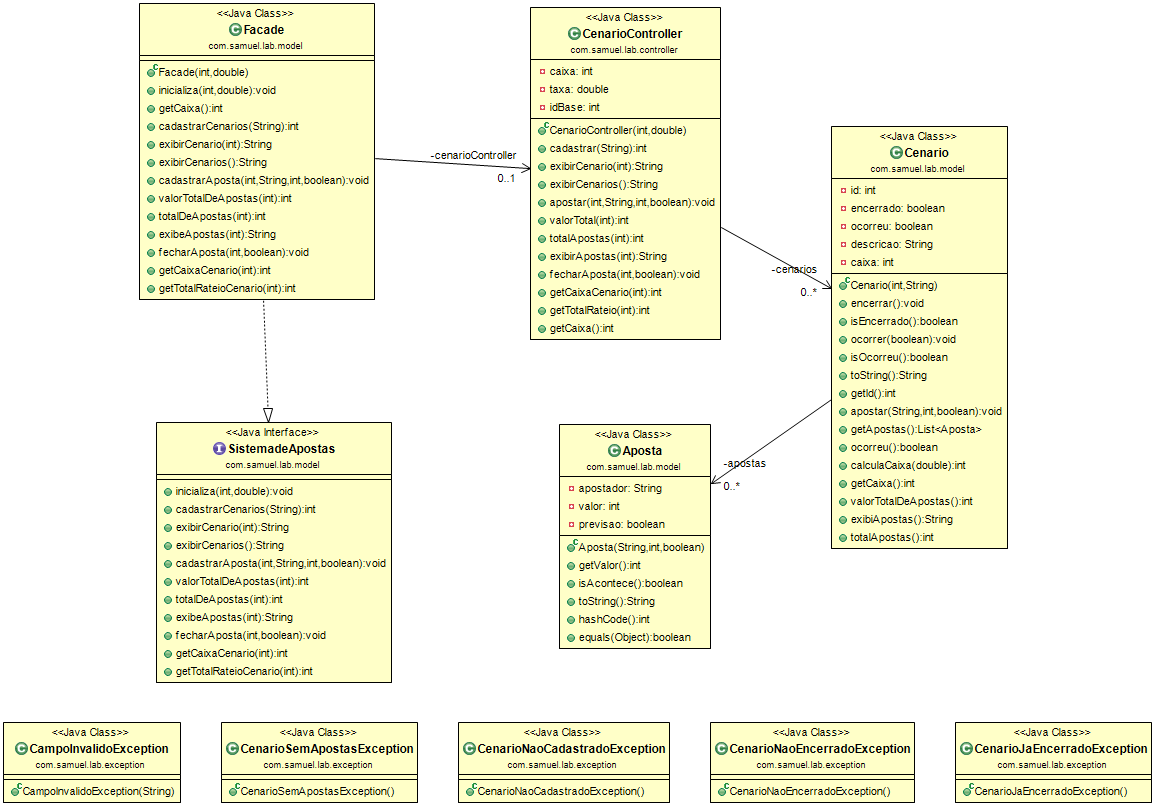
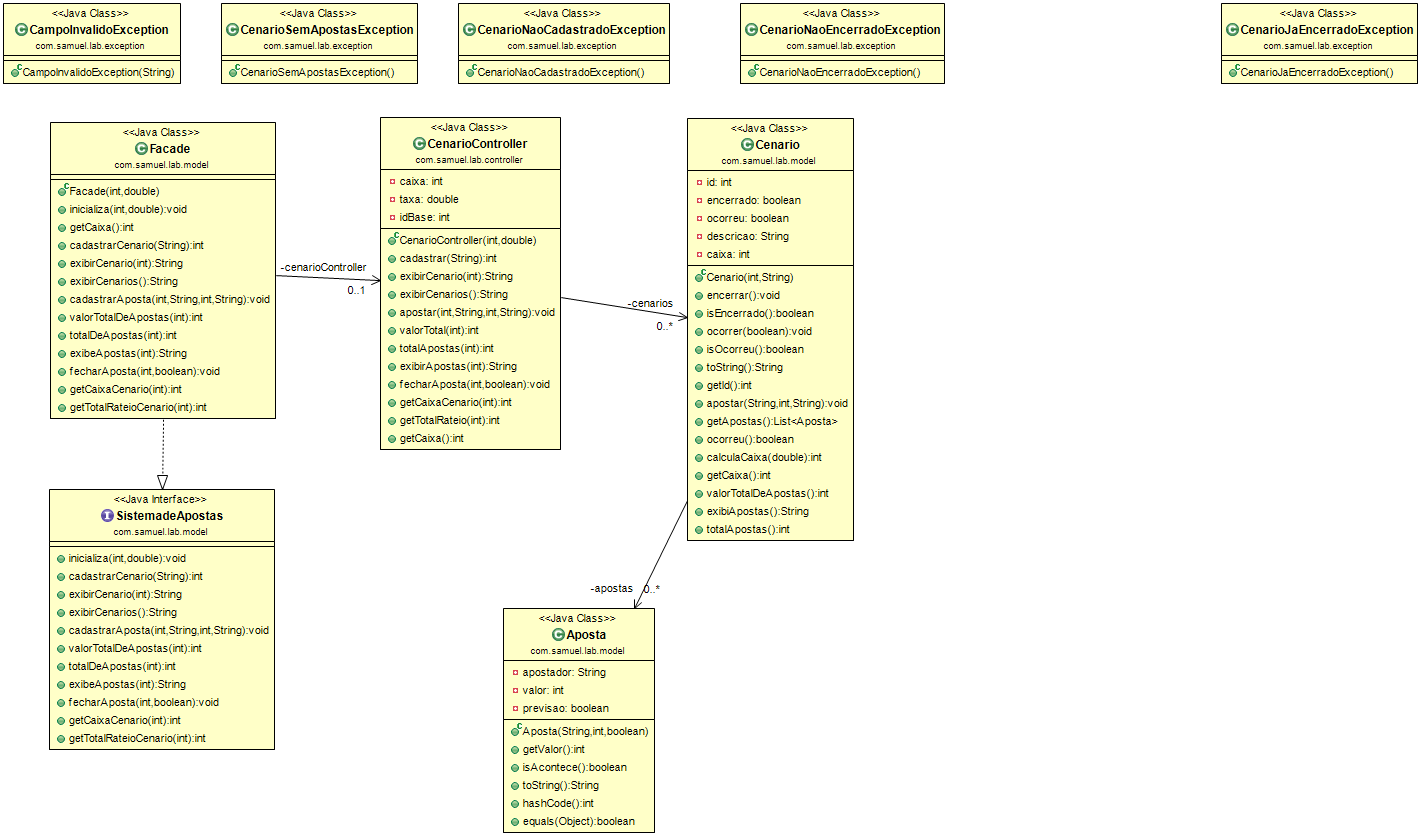
Ajustado e acordo com a especificação

diff --git a/tests/com/samuel/tests/controller/CenarioControllerTest.java b/tests/com/samuel/tests/controller/CenarioControllerTest.java
@@ -120,7 +120,7 @@ public class CenarioControllerTest {
 	@Test(expected = CampoInvalidoException.class)
 	public void testApostarApostadorNull() {
 		this.cenarioController.cadastrar("Brasil Hexa");
-		this.cenarioController.apostar(1, null, 1000, true);
+		this.cenarioController.apostar(1, null, 1000, "VAI ACONTECER");
 	}
 	
 	/**
@@ -129,7 +129,7 @@ public class CenarioControllerTest {
 	@Test(expected = CampoInvalidoException.class)
 	public void testApostarApostadorVazio() {
 		this.cenarioController.cadastrar("Brasil Hexa");
-		this.cenarioController.apostar(1, "", 1000, true);
+		this.cenarioController.apostar(1, "", 1000, "VAI ACONTECER");
 	}
 	
 	/**
@@ -138,18 +138,35 @@ public class CenarioControllerTest {
 	@Test(expected = CampoInvalidoException.class)
 	public void testApostarValorNegativo() {
 		this.cenarioController.cadastrar("Brasil Hexa");
-		this.cenarioController.apostar(1, "Samuel", -1000, true);
+		this.cenarioController.apostar(1, "Samuel", -1000, "VAI ACONTECER");
 	}
 	
 	/**
-	 * Testa o vprocesso de aposta com o valor da aposta zerado
+	 * Testa o processo de aposta com o valor da aposta zerado
 	 */
 	@Test(expected = CampoInvalidoException.class)
 	public void testApostarValorZerado() {
 		this.cenarioController.cadastrar("Brasil Hexa");
-		this.cenarioController.apostar(1, "Samuel", 0, true);
+		this.cenarioController.apostar(1, "Samuel", 0, "VAI ACONTECER");
 	}
 	
+	/**
+	 * Testa o processo de aposta com o valor da aposta zerado
+	 */
+	@Test(expected = CampoInvalidoException.class)
+	public void testApostarPrevisaoNula() {
+		this.cenarioController.cadastrar("Brasil Hexa");
+		this.cenarioController.apostar(1, "Samuel", 0, null);
+	}
+	
+	/**
+	 * Testa o processo de aposta com a previsão vazia
+	 */
+	@Test(expected = CampoInvalidoException.class)
+	public void testApostarPrevisaoVazia() {
+		this.cenarioController.cadastrar("Brasil Hexa");
+		this.cenarioController.apostar(1, "Samuel", 0, "");
+	}
 	
 	/**
 	 * Testa o carregamento do valor total de um cenário
@@ -157,7 +174,7 @@ public class CenarioControllerTest {
 	@Test
 	public void testValorTotal() {
 		this.cenarioController.cadastrar("Brasil Hexa");
-		this.cenarioController.apostar(1, "Samuel", 100, false);
+		this.cenarioController.apostar(1, "Samuel", 100,"N VAI ACONTECER");
 		assertEquals(100, this.cenarioController.valorTotal(1));
 	}
 	
@@ -184,8 +201,8 @@ public class CenarioControllerTest {
 	@Test
 	public void testTotalApostas() {
 		this.cenarioController.cadastrar("Brasil Hexa");
-		this.cenarioController.apostar(1, "Samuel", 100, false);
-		this.cenarioController.apostar(1, "Samuel", 100, true);
+		this.cenarioController.apostar(1, "Samuel", 100,"N VAI ACONTECER");
+		this.cenarioController.apostar(1, "Samuel", 100,"VAI ACONTECER");
 		assertEquals(2, this.cenarioController.totalApostas(1));
 	}
 	
@@ -215,8 +232,8 @@ public class CenarioControllerTest {
 		str += "Maria - R$1,00 - VAI ACONTECER";
 		
 		this.cenarioController.cadastrar("Brasil Hexa");
-		this.cenarioController.apostar(1, "Samuel", 100, false);
-		this.cenarioController.apostar(1, "Maria", 100, true);
+		this.cenarioController.apostar(1, "Samuel", 100, "N VAI ACONTECER");
+		this.cenarioController.apostar(1, "Maria", 100, "VAI ACONTECER");
 		
 		assertEquals(str, this.cenarioController.exibirApostas(1));
 		
@@ -263,7 +280,7 @@ public class CenarioControllerTest {
 	@Test
 	public void testGetCaixaInt() {
 		this.cenarioController.cadastrar("Brasil Hexa");
-		this.cenarioController.apostar(1, "Samuel", 2000, true);
+		this.cenarioController.apostar(1, "Samuel", 2000, "VAI ACONTECER");
 		this.cenarioController.fecharAposta(1, true);
 		assertEquals(200, this.cenarioController.getCaixaCenario(1));
 	}
@@ -294,7 +311,7 @@ public class CenarioControllerTest {
 	@Test
 	public void testGetTotalRateio() {
 		this.cenarioController.cadastrar("Brasil Hexa");
-		this.cenarioController.apostar(1, "Samuel", 2000, true);
+		this.cenarioController.apostar(1, "Samuel", 2000, "VAI ACONTECER");
 		this.cenarioController.fecharAposta(1, true);
 		assertEquals(1800, this.cenarioController.getTotalRateio(1));
 	}
@@ -326,7 +343,7 @@ public class CenarioControllerTest {
 	@Test(expected = CenarioNaoEncerradoException.class)
 	public void testGetTotalRateioCenarioNaoEncerrado() {
 		this.cenarioController.cadastrar("Brasil Hexa");
-		this.cenarioController.apostar(1, "Samuel", 1000, true);
+		this.cenarioController.apostar(1, "Samuel", 1000, "VAI ACONTECER");
 		this.cenarioController.getTotalRateio(1);
 	}
 

diff --git a/tests/com/samuel/tests/model/CenarioTest.java b/tests/com/samuel/tests/model/CenarioTest.java
@@ -102,7 +102,7 @@ public class CenarioTest {
 	@Test
 	public void testIsEncerradoTrue() {
 		this.cenario.encerrar();
-		assertFalse(this.cenario.isEncerrado());
+		assertTrue(this.cenario.isEncerrado());
 	}
 
 	/**
@@ -118,7 +118,7 @@ public class CenarioTest {
 	 * Testa o processo de verificar se um cenário ocorreu com um cenário que não ocorreu
 	 */
 	@Test
-	public void testOcorrerFAlse() {
+	public void testOcorrerFalse() {
 		this.cenario.ocorrer(false);
 		assertFalse(this.cenario.isOcorreu());
 	}
@@ -168,7 +168,7 @@ public class CenarioTest {
 	 */
 	@Test(expected = CampoInvalidoException.class)
 	public void testApostarApostadorNull() {
-		this.cenario.apostar(null, 1000, true);
+		this.cenario.apostar(null, 1000, "VAI ACONTECER");
 	}
 	
 	/**
@@ -176,7 +176,7 @@ public class CenarioTest {
 	 */
 	@Test(expected = CampoInvalidoException.class)
 	public void testApostarApostadorVazio() {
-		this.cenario.apostar("", 1000, true);
+		this.cenario.apostar("", 1000, "VAI ACONTECER");
 	}
 	
 	/**
@@ -184,7 +184,7 @@ public class CenarioTest {
 	 */
 	@Test(expected = CampoInvalidoException.class)
 	public void testApostarValorZerado() {
-		this.cenario.apostar("Samuel", 0, true);
+		this.cenario.apostar("Samuel", 0, "VAI ACONTECER");
 	}
 	
 	/**
@@ -192,7 +192,23 @@ public class CenarioTest {
 	 */
 	@Test(expected = CampoInvalidoException.class)
 	public void testApostarValorNegativo() {
-		this.cenario.apostar("Samuel", -100 , true);
+		this.cenario.apostar("Samuel", -100 , "VAI ACONTECER");
+	}
+	
+	/**
+	 * Testa o processo de apostar com a previsão nula
+	 */
+	@Test(expected = CampoInvalidoException.class)
+	public void testApostarPrevisaoNula() {
+		this.cenario.apostar("Samuel", -100 , null);
+	}
+	
+	/**
+	 * Testa o processo de apostar com a previsão vazia
+	 */
+	@Test(expected = CampoInvalidoException.class)
+	public void testApostarPrevisaoVazia() {
+		this.cenario.apostar("Samuel", -100 , "");
 	}
 
 	/**
@@ -208,8 +224,8 @@ public class CenarioTest {
 		apostas.add(aposta1);
 		apostas.add(aposta2);
 		
-		this.cenario.apostar("Samuel", 10, true);
-		this.cenario.apostar("Samuel", 10, false);
+		this.cenario.apostar("Samuel", 10, "VAI ACONTECER");
+		this.cenario.apostar("Samuel", 10, "N VAI ACONTECER");
 		
 		assertEquals(apostas, this.cenario.getApostas());
 	}
@@ -237,7 +253,7 @@ public class CenarioTest {
 	 */
 	@Test
 	public void testCalculaCaixa() {
-		this.cenario.apostar("Samuel", 100, true);
+		this.cenario.apostar("Samuel", 100, "VAI ACONTECER");
 		assertEquals(10, this.cenario.calculaCaixa(0.10));
 	}
 
@@ -246,8 +262,8 @@ public class CenarioTest {
 	 */
 	@Test
 	public void testGetCaixa() {
-		this.cenario.apostar("Samuel", 10, true);
-		this.cenario.apostar("Maria", 100, false);
+		this.cenario.apostar("Samuel", 10, "VAI ACONTECER");
+		this.cenario.apostar("Maria", 100, "N VAI ACONTECER");
 		assertEquals(110, this.cenario.getCaixa());
 	}
 
@@ -256,8 +272,8 @@ public class CenarioTest {
 	 */
 	@Test
 	public void testValorTotalDeApostas() {
-		this.cenario.apostar("Samuel", 10, true);
-		this.cenario.apostar("Maria", 100, false);
+		this.cenario.apostar("Samuel", 10, "VAI ACONTECER");
+		this.cenario.apostar("Maria", 100, "N VAI ACONTECER");
 		assertEquals(110, this.cenario.valorTotalDeApostas());
 	}
 	
@@ -266,8 +282,8 @@ public class CenarioTest {
 	 */
 	@Test
 	public void testExibiApostas() {
-		this.cenario.apostar("Samuel", 10, true);
-		this.cenario.apostar("Maria", 100, false);
+		this.cenario.apostar("Samuel", 10, "VAI ACONTECER");
+		this.cenario.apostar("Maria", 100, "N VAI ACONTECER");
 		
 		String str  = "Samuel - R$0,10 - VAI ACONTECER"+System.lineSeparator();
 		str += "Maria - R$1,00 - N VAI ACONTECER";

diff --git a/src/com/samuel/lab/model/Facade.java b/src/com/samuel/lab/model/Facade.java
@@ -52,7 +52,7 @@ public class Facade implements SistemadeApostas{
 	 * @return um inteiro representando o id do cenário;
 	 */
 	@Override
-	public int cadastrarCenarios(String descricao) {
+	public int cadastrarCenario(String descricao) {
 		return this.cenarioController.cadastrar(descricao);
 	}
 
@@ -88,10 +88,10 @@ public class Facade implements SistemadeApostas{
 	 * @param valor
 	 *            : Um inteiro representando o valor em centavos da aposta
 	 * @param previsao
-	 *            : Um valor bolleano que representa a previsao do apostador
+	 *            : Uma string que representa a previsao do apostador
 	 */
 	@Override
-	public void cadastrarAposta(int cenario, String apostador, int valor, boolean previsao) {
+	public void cadastrarAposta(int cenario, String apostador, int valor, String previsao) {
 		this.cenarioController.apostar(cenario,apostador,valor, previsao);
 	}
 	

diff --git a/src/com/samuel/lab/model/SistemadeApostas.java b/src/com/samuel/lab/model/SistemadeApostas.java
@@ -24,7 +24,7 @@ public interface SistemadeApostas {
 	 * @param descricao
 	 * @return um inteiro representando o id do cenário;
 	 */
-	public int cadastrarCenarios(String descricao);
+	public int cadastrarCenario(String descricao);
 
 	/**
 	 * Método responsável por exibi um cenário
@@ -52,9 +52,9 @@ public interface SistemadeApostas {
 	 * @param valor
 	 *            : Um inteiro representando o valor em centavos da aposta
 	 * @param previsao
-	 *            : Um valor bolleano que representa a previsao do apostador
+	 *            : Uma string que representa a previsao do apostador
 	 */
-	public void cadastrarAposta(int cenario, String apostador, int valor, boolean previsao);
+	public void cadastrarAposta(int cenario, String apostador, int valor, String previsao);
 
 	/**
 	 * Método responsável por calcular o valor total arrecardado com as apostas de

diff --git a/src/com/samuel/lab/model/Cenario.java b/src/com/samuel/lab/model/Cenario.java
@@ -127,8 +127,14 @@ public class Cenario {
 	 * @param valor : Valor total da aposta
 	 * @param previsao : Previsão da aposta para o cenário segundo o apostador
 	 */
-	public void apostar(String apostador,int valor,boolean previsao) {
-		Aposta aposta = new Aposta(apostador, valor, previsao);
+	public void apostar(String apostador,int valor,String previsao) {
+		if(previsao==null || previsao.isEmpty()) throw new CampoInvalidoException("Valor da previsão incorreto");
+		Aposta aposta = null;
+		if(previsao.equals("VAI ACONTECER")) {
+			aposta = new Aposta(apostador, valor, true);
+		}else {
+			aposta = new Aposta(apostador, valor, false);
+		}
 		this.caixa += aposta.getValor();
 		this.apostas.add(aposta);
 		

diff --git a/src/com/samuel/lab/controller/CenarioController.java b/src/com/samuel/lab/controller/CenarioController.java
@@ -98,9 +98,9 @@ public class CenarioController {
 	 * @param valor : O valor da aposta
 	 * @param previsao : Siginifica se a aposta é favorável ou cotra
 	 */
-	public void apostar(int idCenario, String apostador, int valor, boolean previsao) {
+	public void apostar(int idCenario, String apostador, int valor, String previsao) {
 		if(!this.cenarios.containsKey(idCenario)) throw new CenarioNaoCadastradoException();
-		Cenario cenario = cenarios.get(idCenario);
+		Cenario cenario = cenarios.get(idCenario);	
 		cenario.apostar(apostador,valor,previsao);
 		
 	}
